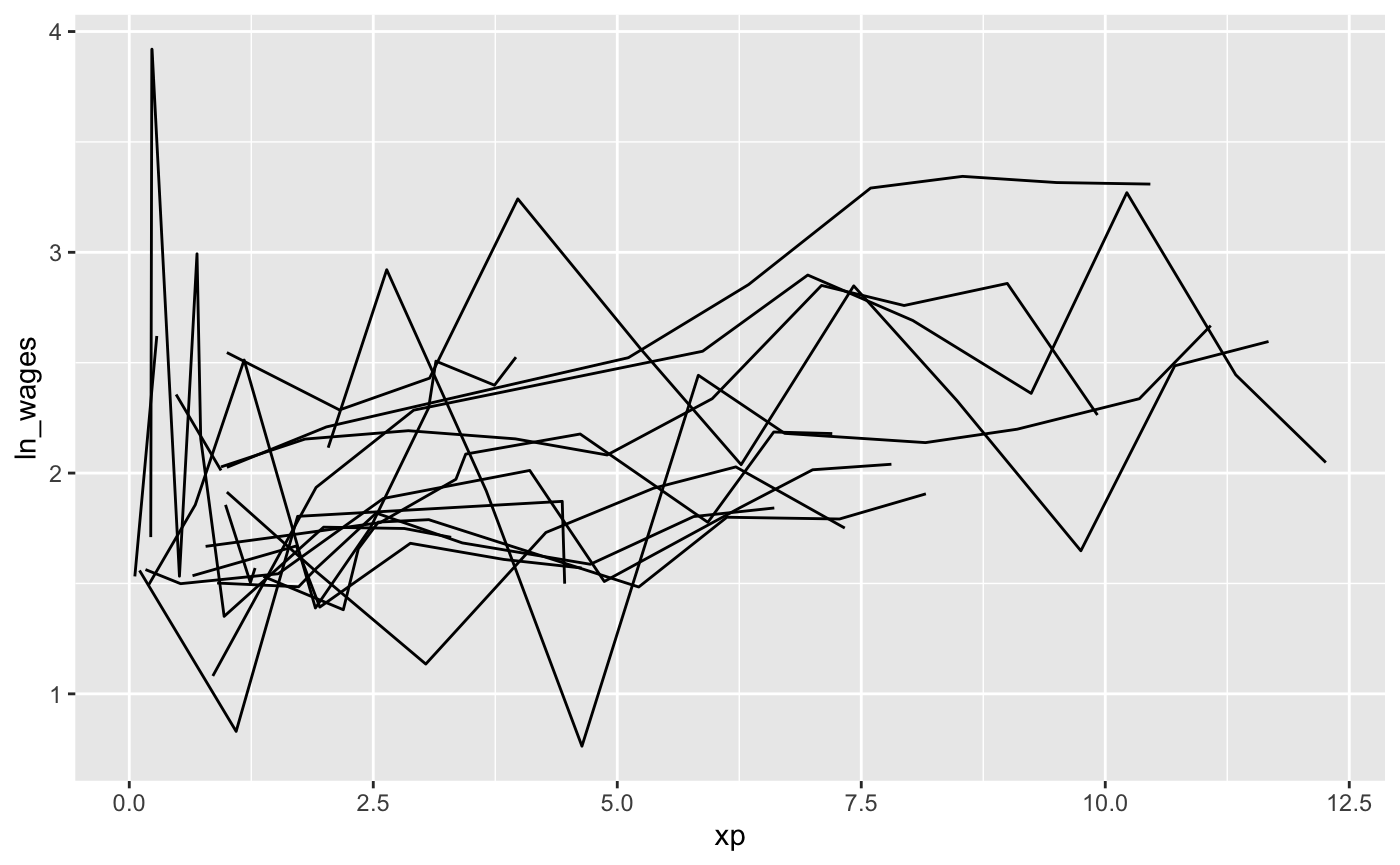
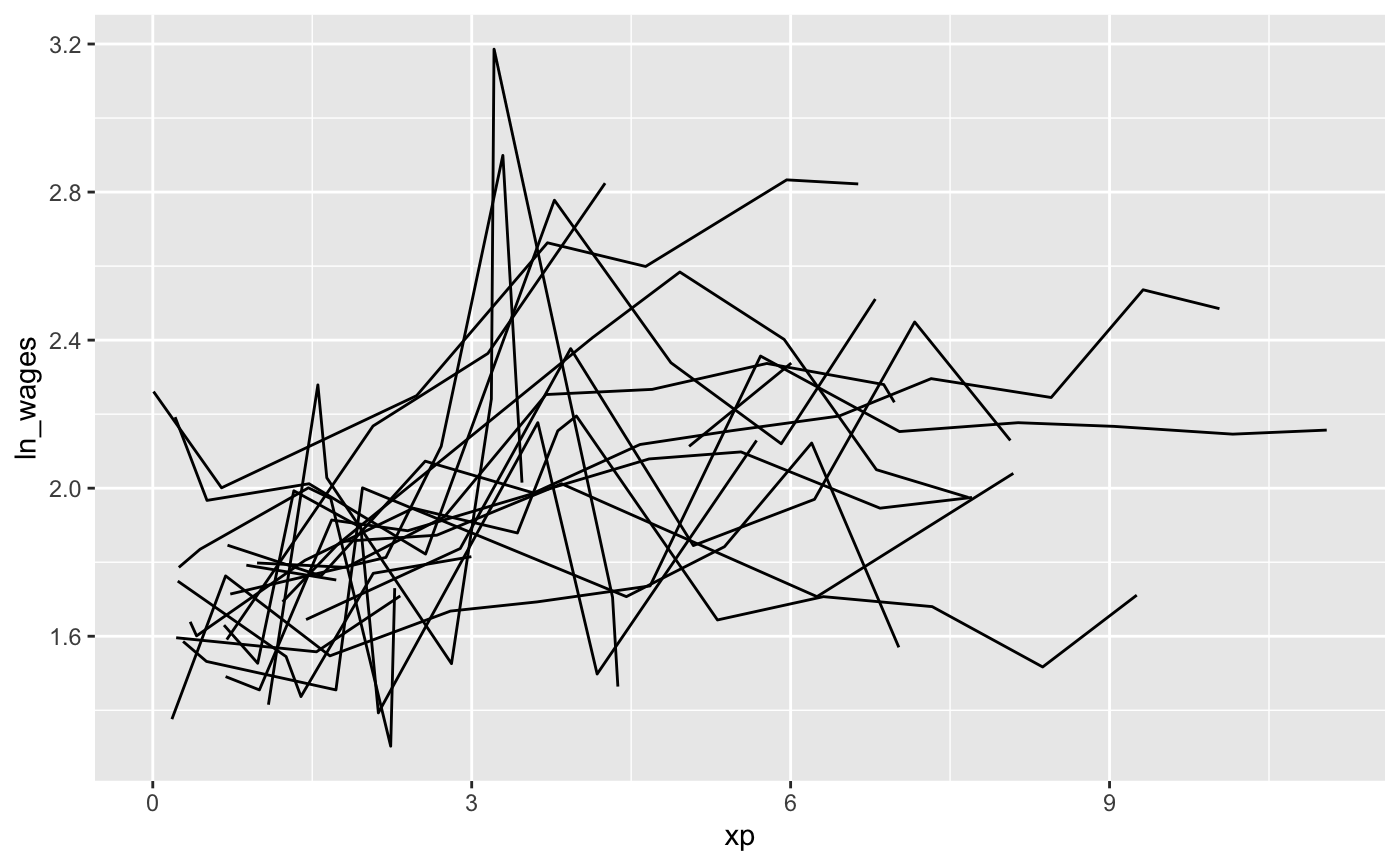
update to properley include mixed models article

diff --git a/docs/articles/visualisation-gallery.html b/docs/articles/visualisation-gallery.html
@@ -65,7 +65,7 @@
       <a href="../articles/id-interesting-obs.html">Identify Interesting Observations</a>
     </li>
     <li>
-      <a href="../articles/mixed-effects-models">Exploring Mixed Effects Models</a>
+      <a href="../articles/mixed-effects-models.html">Exploring Mixed Effects Models</a>
     </li>
   </ul>
 </li>
@@ -120,21 +120,21 @@
 <div class="sourceCode" id="cb2"><pre class="sourceCode r"><code class="sourceCode r"><span id="cb2-1"><a href="#cb2-1"></a></span>
 <span id="cb2-2"><a href="#cb2-2"></a>wages <span class="op">%&gt;%</span></span>
 <span id="cb2-3"><a href="#cb2-3"></a><span class="st">  </span><span class="kw"><a href="../reference/sample-n-frac-keys.html">sample_n_keys</a></span>(<span class="dt">size =</span> <span class="dv">20</span>)</span>
-<span id="cb2-4"><a href="#cb2-4"></a><span class="co">#&gt; # A tsibble: 146 x 9 [!]</span></span>
+<span id="cb2-4"><a href="#cb2-4"></a><span class="co">#&gt; # A tsibble: 173 x 9 [!]</span></span>
 <span id="cb2-5"><a href="#cb2-5"></a><span class="co">#&gt; # Key:       id [20]</span></span>
 <span id="cb2-6"><a href="#cb2-6"></a><span class="co">#&gt;       id ln_wages    xp   ged xp_since_ged black hispanic high_grade</span></span>
 <span id="cb2-7"><a href="#cb2-7"></a><span class="co">#&gt;    &lt;int&gt;    &lt;dbl&gt; &lt;dbl&gt; &lt;int&gt;        &lt;dbl&gt; &lt;int&gt;    &lt;int&gt;      &lt;int&gt;</span></span>
-<span id="cb2-8"><a href="#cb2-8"></a><span class="co">#&gt;  1   155     1.78 0.985     0            0     0        0          9</span></span>
-<span id="cb2-9"><a href="#cb2-9"></a><span class="co">#&gt;  2   155     2.08 2.02      0            0     0        0          9</span></span>
-<span id="cb2-10"><a href="#cb2-10"></a><span class="co">#&gt;  3   155     1.54 2.97      0            0     0        0          9</span></span>
-<span id="cb2-11"><a href="#cb2-11"></a><span class="co">#&gt;  4   155     2.16 3.83      0            0     0        0          9</span></span>
-<span id="cb2-12"><a href="#cb2-12"></a><span class="co">#&gt;  5   155     2.32 4.56      0            0     0        0          9</span></span>
-<span id="cb2-13"><a href="#cb2-13"></a><span class="co">#&gt;  6   155     1.73 5.72      0            0     0        0          9</span></span>
-<span id="cb2-14"><a href="#cb2-14"></a><span class="co">#&gt;  7   155     2.22 7.14      0            0     0        0          9</span></span>
-<span id="cb2-15"><a href="#cb2-15"></a><span class="co">#&gt;  8   155     2.46 7.97      0            0     0        0          9</span></span>
-<span id="cb2-16"><a href="#cb2-16"></a><span class="co">#&gt;  9   155     2.33 8.94      0            0     0        0          9</span></span>
-<span id="cb2-17"><a href="#cb2-17"></a><span class="co">#&gt; 10   155     2.61 9.71      0            0     0        0          9</span></span>
-<span id="cb2-18"><a href="#cb2-18"></a><span class="co">#&gt; # … with 136 more rows, and 1 more variable: unemploy_rate &lt;dbl&gt;</span></span>
+<span id="cb2-8"><a href="#cb2-8"></a><span class="co">#&gt;  1   394     2.38 1.89      0            0     1        0         10</span></span>
+<span id="cb2-9"><a href="#cb2-9"></a><span class="co">#&gt;  2   394     1.93 2.77      0            0     1        0         10</span></span>
+<span id="cb2-10"><a href="#cb2-10"></a><span class="co">#&gt;  3   394     1.61 3.01      0            0     1        0         10</span></span>
+<span id="cb2-11"><a href="#cb2-11"></a><span class="co">#&gt;  4   767     1.70 0.173     0            0     0        0          9</span></span>
+<span id="cb2-12"><a href="#cb2-12"></a><span class="co">#&gt;  5   767     1.60 0.892     0            0     0        0          9</span></span>
+<span id="cb2-13"><a href="#cb2-13"></a><span class="co">#&gt;  6   767     1.71 1.45      0            0     0        0          9</span></span>
+<span id="cb2-14"><a href="#cb2-14"></a><span class="co">#&gt;  7   767     1.74 1.73      0            0     0        0          9</span></span>
+<span id="cb2-15"><a href="#cb2-15"></a><span class="co">#&gt;  8   767     1.26 2.29      0            0     0        0          9</span></span>
+<span id="cb2-16"><a href="#cb2-16"></a><span class="co">#&gt;  9   767     1.68 2.71      0            0     0        0          9</span></span>
+<span id="cb2-17"><a href="#cb2-17"></a><span class="co">#&gt; 10   767     1.57 3.38      0            0     0        0          9</span></span>
+<span id="cb2-18"><a href="#cb2-18"></a><span class="co">#&gt; # … with 163 more rows, and 1 more variable: unemploy_rate &lt;dbl&gt;</span></span>
 <span id="cb2-19"><a href="#cb2-19"></a></span>
 <span id="cb2-20"><a href="#cb2-20"></a>wages <span class="op">%&gt;%</span></span>
 <span id="cb2-21"><a href="#cb2-21"></a><span class="st">  </span><span class="kw"><a href="../reference/sample-n-frac-keys.html">sample_n_keys</a></span>(<span class="dt">size =</span> <span class="dv">20</span>) <span class="op">%&gt;%</span></span>

diff --git a/docs/articles/finding-features.html b/docs/articles/finding-features.html
@@ -65,7 +65,7 @@
       <a href="../articles/id-interesting-obs.html">Identify Interesting Observations</a>
     </li>
     <li>
-      <a href="../articles/mixed-effects-models">Exploring Mixed Effects Models</a>
+      <a href="../articles/mixed-effects-models.html">Exploring Mixed Effects Models</a>
     </li>
   </ul>
 </li>
@@ -277,7 +277,7 @@
 <span id="cb12-10"><a href="#cb12-10"></a><span class="co">#&gt; $med</span></span>
 <span id="cb12-11"><a href="#cb12-11"></a><span class="co">#&gt; function (x, na.rm = FALSE, ...) </span></span>
 <span id="cb12-12"><a href="#cb12-12"></a><span class="co">#&gt; UseMethod("median")</span></span>
-<span id="cb12-13"><a href="#cb12-13"></a><span class="co">#&gt; &lt;bytecode: 0x7fe789589230&gt;</span></span>
+<span id="cb12-13"><a href="#cb12-13"></a><span class="co">#&gt; &lt;bytecode: 0x7fa76e1cbf60&gt;</span></span>
 <span id="cb12-14"><a href="#cb12-14"></a><span class="co">#&gt; &lt;environment: namespace:stats&gt;</span></span>
 <span id="cb12-15"><a href="#cb12-15"></a><span class="co">#&gt; </span></span>
 <span id="cb12-16"><a href="#cb12-16"></a><span class="co">#&gt; $max</span></span>

diff --git a/docs/reference/add_n_obs.html b/docs/reference/add_n_obs.html
@@ -108,7 +108,7 @@ we are counting the number observations for each keys in the data." />
       <a href="../articles/id-interesting-obs.html">Identify Interesting Observations</a>
     </li>
     <li>
-      <a href="../articles/mixed-effects-models">Exploring Mixed Effects Models</a>
+      <a href="../articles/mixed-effects-models.html">Exploring Mixed Effects Models</a>
     </li>
   </ul>
 </li>

diff --git a/docs/reference/monotonic.html b/docs/reference/monotonic.html
@@ -110,7 +110,7 @@ differences, so if you like you can pass extra arguments to diff." />
       <a href="../articles/id-interesting-obs.html">Identify Interesting Observations</a>
     </li>
     <li>
-      <a href="../articles/mixed-effects-models">Exploring Mixed Effects Models</a>
+      <a href="../articles/mixed-effects-models.html">Exploring Mixed Effects Models</a>
     </li>
   </ul>
 </li>

diff --git a/docs/reference/b_summaries.html b/docs/reference/b_summaries.html
@@ -122,7 +122,7 @@ involving quantiles, type = 8 and names = FALSE. Summaries include:
       <a href="../articles/id-interesting-obs.html">Identify Interesting Observations</a>
     </li>
     <li>
-      <a href="../articles/mixed-effects-models">Exploring Mixed Effects Models</a>
+      <a href="../articles/mixed-effects-models.html">Exploring Mixed Effects Models</a>
     </li>
   </ul>
 </li>

diff --git a/docs/reference/feat_spread.html b/docs/reference/feat_spread.html
@@ -108,7 +108,7 @@ median absolute distance, and interquartile range" />
       <a href="../articles/id-interesting-obs.html">Identify Interesting Observations</a>
     </li>
     <li>
-      <a href="../articles/mixed-effects-models">Exploring Mixed Effects Models</a>
+      <a href="../articles/mixed-effects-models.html">Exploring Mixed Effects Models</a>
     </li>
   </ul>
 </li>

diff --git a/docs/reference/feat_brolgar.html b/docs/reference/feat_brolgar.html
@@ -108,7 +108,7 @@ This feature returns all features in brolgar." />
       <a href="../articles/id-interesting-obs.html">Identify Interesting Observations</a>
     </li>
     <li>
-      <a href="../articles/mixed-effects-models">Exploring Mixed Effects Models</a>
+      <a href="../articles/mixed-effects-models.html">Exploring Mixed Effects Models</a>
     </li>
   </ul>
 </li>

diff --git a/docs/reference/heights.html b/docs/reference/heights.html
@@ -108,7 +108,7 @@ smaller number of countries from 1500-1800." />
       <a href="../articles/id-interesting-obs.html">Identify Interesting Observations</a>
     </li>
     <li>
-      <a href="../articles/mixed-effects-models">Exploring Mixed Effects Models</a>
+      <a href="../articles/mixed-effects-models.html">Exploring Mixed Effects Models</a>
     </li>
   </ul>
 </li>

diff --git a/docs/reference/facet_sample.html b/docs/reference/facet_sample.html
@@ -109,7 +109,7 @@ stratify_keys() and sample_n_keys()." />
       <a href="../articles/id-interesting-obs.html">Identify Interesting Observations</a>
     </li>
     <li>
-      <a href="../articles/mixed-effects-models">Exploring Mixed Effects Models</a>
+      <a href="../articles/mixed-effects-models.html">Exploring Mixed Effects Models</a>
     </li>
   </ul>
 </li>

diff --git a/docs/reference/wages.html b/docs/reference/wages.html
@@ -114,7 +114,7 @@ http://gseacademic.harvard.edu/alda/" />
       <a href="../articles/id-interesting-obs.html">Identify Interesting Observations</a>
     </li>
     <li>
-      <a href="../articles/mixed-effects-models">Exploring Mixed Effects Models</a>
+      <a href="../articles/mixed-effects-models.html">Exploring Mixed Effects Models</a>
     </li>
   </ul>
 </li>

diff --git a/docs/reference/n_obs.html b/docs/reference/n_obs.html
@@ -108,7 +108,7 @@ vctrs::vec_size() under the hood." />
       <a href="../articles/id-interesting-obs.html">Identify Interesting Observations</a>
     </li>
     <li>
-      <a href="../articles/mixed-effects-models">Exploring Mixed Effects Models</a>
+      <a href="../articles/mixed-effects-models.html">Exploring Mixed Effects Models</a>
     </li>
   </ul>
 </li>

diff --git a/docs/reference/feat_monotonic.html b/docs/reference/feat_monotonic.html
@@ -108,7 +108,7 @@ decrease, or is it unvarying?" />
       <a href="../articles/id-interesting-obs.html">Identify Interesting Observations</a>
     </li>
     <li>
-      <a href="../articles/mixed-effects-models">Exploring Mixed Effects Models</a>
+      <a href="../articles/mixed-effects-models.html">Exploring Mixed Effects Models</a>
     </li>
   </ul>
 </li>
